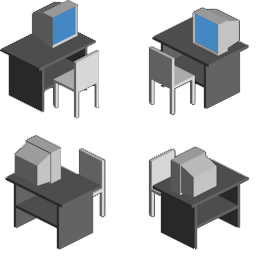
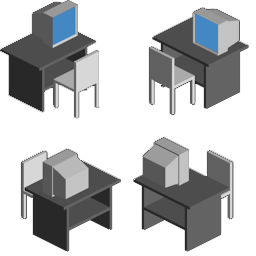
Graffaa pistetty paikalleen.

Changed region(s): [[0.0, 0.5312, 0.4688, 1.0], [0.5, 0.5312, 0.9688, 1.0]]

diff --git a/core/src/com/mygdx/furniture/FurnitureButtons.java b/core/src/com/mygdx/furniture/FurnitureButtons.java
@@ -27,7 +27,8 @@ public class FurnitureButtons {
     private Texture         moveImg;
     private Texture         cancelImg;
     private Texture         rotateImg;
-    private Texture         sellBuyImg;
+    private Texture         sellImg;
+    private Texture         buyImg;
 
     private TextButton      rotate;
     private TextButton      buySell;
@@ -58,6 +59,12 @@ public class FurnitureButtons {
         moveImg.setFilter(Texture.TextureFilter.Linear, Texture.TextureFilter.Linear);
         cancelImg = new Texture("UI_ButtonCancel.png");
         cancelImg.setFilter(Texture.TextureFilter.Linear, Texture.TextureFilter.Linear);
+        rotateImg = new Texture("UI_ButtonRotate.png");
+        rotateImg.setFilter(Texture.TextureFilter.Linear, Texture.TextureFilter.Linear);
+        buyImg = new Texture("UI_ButtonSell.png");
+        buyImg.setFilter(Texture.TextureFilter.Linear, Texture.TextureFilter.Linear);
+        sellImg = new Texture("UI_ButtonBuy.png");
+        sellImg.setFilter(Texture.TextureFilter.Linear, Texture.TextureFilter.Linear);
 
         //CREATE SKIN
         skin = new Skin();
@@ -84,7 +91,6 @@ public class FurnitureButtons {
         skin.add("move", moveImg);
         skin.add("move", bfont);
 
-        //Config TextButtonStyle and name it "default"
         textButtonStyle = new TextButton.TextButtonStyle();
         textButtonStyle.up = skin.newDrawable("move", Color.LIGHT_GRAY);
         textButtonStyle.down = skin.newDrawable("move", Color.DARK_GRAY);
@@ -97,7 +103,6 @@ public class FurnitureButtons {
         skin.add("cancel", cancelImg);
         skin.add("cancel", bfont);
 
-        //Config TextButtonStyle and name it "default"
         textButtonStyle = new TextButton.TextButtonStyle();
         textButtonStyle.up = skin.newDrawable("cancel", Color.LIGHT_GRAY);
         textButtonStyle.down = skin.newDrawable("cancel", Color.DARK_GRAY);
@@ -105,6 +110,45 @@ public class FurnitureButtons {
 
         textButtonStyle.font = skin.getFont("default");
         skin.add("cancel", textButtonStyle);
+
+        //ROTATEBUTTON STYLE
+        skin.add("rotate", rotateImg);
+        skin.add("rotate", bfont);
+
+        //Config TextButtonStyle and name it "default"
+        textButtonStyle = new TextButton.TextButtonStyle();
+        textButtonStyle.up = skin.newDrawable("rotate", Color.LIGHT_GRAY);
+        textButtonStyle.down = skin.newDrawable("rotate", Color.DARK_GRAY);
+        textButtonStyle.over = skin.newDrawable("rotate", Color.LIGHT_GRAY);
+
+        textButtonStyle.font = skin.getFont("default");
+        skin.add("rotate", textButtonStyle);
+
+        //SELLBUTTON CREATION
+        skin.add("sell", sellImg);
+        skin.add("sell", bfont);
+
+        //Config TextButtonStyle and name it "default"
+        textButtonStyle = new TextButton.TextButtonStyle();
+        textButtonStyle.up = skin.newDrawable("sell", Color.LIGHT_GRAY);
+        textButtonStyle.down = skin.newDrawable("sell", Color.DARK_GRAY);
+        textButtonStyle.over = skin.newDrawable("sell", Color.LIGHT_GRAY);
+
+        textButtonStyle.font = skin.getFont("default");
+        skin.add("sell", textButtonStyle);
+
+        //BUYBUTTON CREATION
+        skin.add("buy", buyImg);
+        skin.add("buy", bfont);
+
+        //Config TextButtonStyle and name it "default"
+        textButtonStyle = new TextButton.TextButtonStyle();
+        textButtonStyle.up = skin.newDrawable("buy", Color.LIGHT_GRAY);
+        textButtonStyle.down = skin.newDrawable("buy", Color.DARK_GRAY);
+        textButtonStyle.over = skin.newDrawable("buy", Color.LIGHT_GRAY);
+
+        textButtonStyle.font = skin.getFont("default");
+        skin.add("buy", textButtonStyle);
         //END OF SKIN CREATION
 
         touch = new Vector3();
@@ -116,18 +160,18 @@ public class FurnitureButtons {
         //tell officeState that we are moving object.
         game.getOfficeState().setIsMoving(true);
         //ROTATE BUTTON
-        textButtonStyle = skin.get("default",TextButton.TextButtonStyle.class);
-        rotate = new TextButton("R", textButtonStyle);
+        textButtonStyle = skin.get("rotate",TextButton.TextButtonStyle.class);
+        rotate = new TextButton("", textButtonStyle);
         rotate.setTransform(true);
         rotate.setScale(buttonScale);
-        rotate.setPosition(furniture.getX()+ 0.5f,furniture.getY() -0.5f);
+        rotate.setPosition(furniture.getX()+ 0.2f,furniture.getY() -0.5f);
         rotate.addListener(new InputListener(){
             public boolean touchDown (InputEvent event, float x, float y, int pointer, int button) {
                 return true;
             }
             public void touchUp (InputEvent event, float x, float y, int pointer, int button) {
                 //if user is not on top of the button anymore, it dosent do anything
-                if(x > 0 && x < 40 && y > 0 && y < 40){
+                if(x > 0 && x < 64 && y > 0 && y < 64){
                     furniture.rotate();
                 }
             }
@@ -232,8 +276,12 @@ public class FurnitureButtons {
 
 
         //BUY / SELL BUTTON
-        textButtonStyle = skin.get("default",TextButton.TextButtonStyle.class);
-        buySell = new TextButton(buySellText, textButtonStyle);
+        if(furniture.getBought()) {
+            textButtonStyle = skin.get("buy", TextButton.TextButtonStyle.class);
+        }else{
+            textButtonStyle = skin.get("sell", TextButton.TextButtonStyle.class);
+        }
+        buySell = new TextButton("", textButtonStyle);
         buySell.setTransform(true);
         buySell.setScale(buttonScale);
         buySell.setPosition(furniture.getX()+1f, furniture.getY() );
@@ -253,11 +301,10 @@ public class FurnitureButtons {
                 System.out.println((int)touch.x + " "+ (int)touch.y);
 
                 //I don't know why I have to add +1 to y coordinate, but it works.
-                if(x > 0 && x < 40 && y > 0 && y < 40){
+                if(x > 0 && x < 64 && y > 0 && y < 64){
                     if(furniture.getBought()){
                         removeButtons();
                         furniture.sell();
-                        buySellText = "B";
                         if(!furniture.getIsMoving()) {
                             tiles[(int) touch.x][(int) touch.y + 1].setIsFull(false);
                         }
@@ -266,7 +313,6 @@ public class FurnitureButtons {
                         if(tiles[(int)touch.x] [(int) touch.y+1].getIsFull() == false) {
                             removeButtons();
                             furniture.buy();
-                            buySellText = "S";
                             tiles[(int) touch.x][(int) touch.y+1].setIsFull(true);
                         }
                     }

diff --git a/core/src/com/mygdx/game/MapState.java b/core/src/com/mygdx/game/MapState.java
@@ -1,11 +1,19 @@
 package com.mygdx.game;
 
 import com.badlogic.gdx.Gdx;
+import com.badlogic.gdx.Input;
 import com.badlogic.gdx.Screen;
 import com.badlogic.gdx.graphics.GL20;
 import com.badlogic.gdx.graphics.OrthographicCamera;
 import com.badlogic.gdx.graphics.Texture;
 import com.badlogic.gdx.graphics.g2d.SpriteBatch;
+import com.badlogic.gdx.graphics.g2d.TextureRegion;
+import com.badlogic.gdx.scenes.scene2d.InputEvent;
+import com.badlogic.gdx.scenes.scene2d.InputListener;
+import com.badlogic.gdx.scenes.scene2d.Stage;
+import com.badlogic.gdx.scenes.scene2d.ui.ImageButton;
+import com.badlogic.gdx.scenes.scene2d.ui.Skin;
+import com.badlogic.gdx.scenes.scene2d.utils.TextureRegionDrawable;
 
 /**
  * Created by SamiH on 24.2.2017.
@@ -15,7 +23,15 @@ public class MapState implements Screen {
     private ChaosCompany game;
     private SpriteBatch batch;
     private OrthographicCamera camera;
-    private Texture img;
+    private Texture map;
+    private Texture companyUP;
+    private Texture companyDOWN;
+
+    private ImageButton company;
+    private ImageButton.ImageButtonStyle style;
+
+    private Skin skin;
+    private Stage stage;
 
     public MapState(ChaosCompany g){
         game = g;
@@ -23,22 +39,46 @@ public class MapState implements Screen {
         camera = new OrthographicCamera();
         camera.setToOrtho(false, 8, 4.8f);
         batch.setProjectionMatrix(camera.combined);
-        img = new Texture("UI_ButtonCancel.png");
-        img.setFilter(Texture.TextureFilter.Linear, Texture.TextureFilter.Linear);
+
+        map = new Texture("map.png");
+        map.setFilter(Texture.TextureFilter.Linear, Texture.TextureFilter.Linear);
+        stage = new Stage();
+
+        companyUP = new Texture("chaosCompany.png");
+        companyDOWN = new Texture("chaosCompanyDown.png");
+        company = new ImageButton(new TextureRegionDrawable(new TextureRegion(companyUP)),
+                new TextureRegionDrawable(new TextureRegion(companyDOWN)));
+
+        company.setPosition(0,330);
+        company.addListener(new InputListener(){
+            public boolean touchDown (InputEvent event, float x, float y, int pointer, int button) {
+                return true;
+            }
+            public void touchUp (InputEvent event, float x, float y, int pointer, int button) {
+                //if user is not on top of the button anymore, it dosent do anything
+                if(x > 0 && x < 263 && y > 0 && y < 128){
+                    game.setScreen(game.getOfficeState());
+                }
+            }
+        });
+        stage.addActor(company);
     }
 
     @Override
     public void show() {
-
+        Gdx.input.setInputProcessor(stage);
     }
 
     @Override
     public void render(float delta) {
-        Gdx.gl.glClearColor(0, 1, 0, 1);
-        Gdx.gl.glClear(GL20.GL_COLOR_BUFFER_BIT);
+        GL20 gl = Gdx.graphics.getGL20();
+        gl.glClear(GL20.GL_COLOR_BUFFER_BIT);
+
         batch.begin();
-        batch.draw(img, 2,1, 0.5f, 0.5f);
+        batch.draw(map, 0, 0, 8f, 4.8f);
         batch.end();
+        stage.act(delta);
+        stage.draw();
     }
 
     @Override

diff --git a/core/src/com/mygdx/game/BuildMenu.java b/core/src/com/mygdx/game/BuildMenu.java
@@ -289,7 +289,8 @@ public class BuildMenu extends Actor{
                      "waterCooler", waterCooler);
         addFurniture(wellBeingButtons,wellBeingButtonTex,getX()+0.8f,getY() + getHeight() * 0.75f -0.74f,
                      "couch", couch);
-
+        //Add build buttons to marketingFurnitures
+        //Add build buttons to programmingFurnitures
     }
 
     @Override
@@ -306,6 +307,7 @@ public class BuildMenu extends Actor{
 
     private void addFurniture(ArrayList<ImageButton> arrayList, Texture texture, float x, float y,
                               String furnitureName, int furnitureID){
+        texture.setFilter(Texture.TextureFilter.Linear, Texture.TextureFilter.Nearest);
         skin.add(furnitureName,texture);
         ImageButton.ImageButtonStyle style = new ImageButton.ImageButtonStyle();
         style.up = skin.newDrawable(furnitureName, Color.LIGHT_GRAY);

diff --git a/core/src/com/mygdx/game/HireState.java b/core/src/com/mygdx/game/HireState.java
@@ -23,7 +23,7 @@ public class HireState implements Screen {
         camera = new OrthographicCamera();
         camera.setToOrtho(false, 8, 4.8f);
         batch.setProjectionMatrix(camera.combined);
-        img = new Texture("badlogic.jpg");
+        img = new Texture("white.jpg");
     }
 
     @Override
